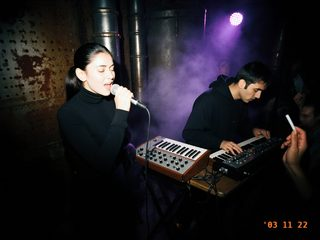
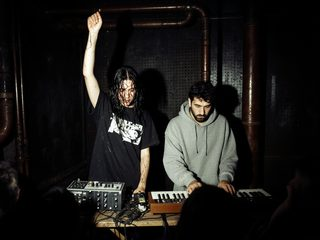
tüntolk photo: both behind the synth table, sweaty and grungy, no smoke
Claude-Session: https://claude.ai/code/session_014sMmtxS7APooUByBnHUrmP

diff --git a/tools/comfyui/README.md b/tools/comfyui/README.md
@@ -67,4 +67,4 @@ Covers render at 1024×1024 and Krea spells short titles correctly most of the t
 
 ## 2000s flash snapshots
 
-For club and party photos from the 2000s use the **2000s Flash Portrait** LoRA (CivitAI 1711719, v2.0, `loras/2000s_Flash_Portrait.safetensors`) at 0.65–0.85, starting the prompt with its trigger "harsh flash photography, Direct flashlight on the subjects face creates a stark contrast against the dark underexposed background." It tends to add a garbled date stamp in the corner; inpaint it out and draw a clean one (tüntolk infobox photo, 0.65).
+For club and party photos from the 2000s use the **2000s Flash Portrait** LoRA (CivitAI 1711719, v2.0, `loras/2000s_Flash_Portrait.safetensors`) at 0.65–0.85, starting the prompt with its trigger "harsh flash photography, Direct flashlight on the subjects face creates a stark contrast against the dark underexposed background." It tends to add a garbled date stamp in the corner; inpaint it out and draw a clean one (the first tüntolk photo, 0.65; the final one at 0.8 had none). Ask for "no smoke, no fog, no stage lights" or it adds a haze machine and a purple spotlight.

diff --git a/Irad_Wiki_Vol2_C_Class.md b/Irad_Wiki_Vol2_C_Class.md
@@ -195,7 +195,7 @@ The genre's use of Morkhan imagery has drawn criticism from clergy of the [[Syro
 | name = tüntolk
 | image = tuntolk_live_2003.jpg
 | caption = Mira Temirova and Askar Daniyarov at a club night in a [[Nurzhan]] boiler room, November 2003
-| alt = A woman in a black turtleneck singing into a microphone beside a man playing synthesizers, lit by camera flash against rusted boiler pipes and purple smoke
+| alt = A sweaty woman with wet hair over her face raises one fist behind a table of synthesizers, beside a bearded man in a grey hoodie playing keys, lit by camera flash against rusted boiler pipes
 | background = group_or_band
 | origin = [[Nurzhan]], Irad
 | genre = [[Mor-Wave]]; [[wp:Cold wave (music)|coldwave]]; [[wp:Electronic music|electronic]]
